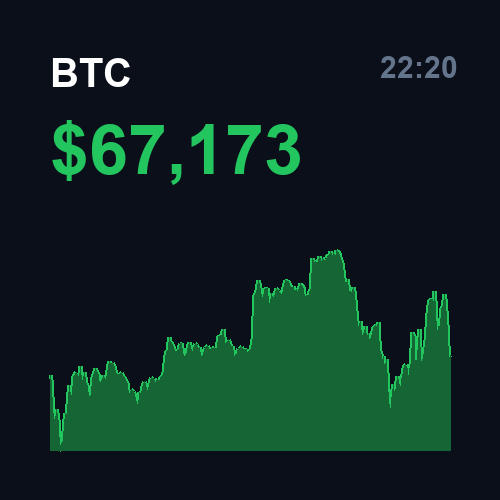
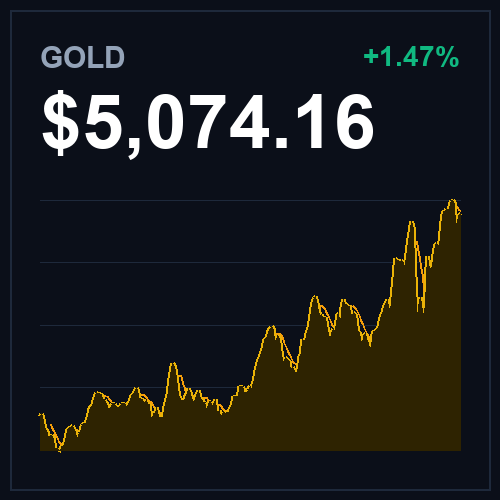
Fix percentage alignment and finalize trading chart styles

diff --git a/main.py b/main.py
@@ -18,107 +18,136 @@ client = TelegramClient('tg', api_id, api_hash)
 
 def get_btc_data():
     try:
-        # Oxirgi 24 soatlik narxlar tarixini olamiz
         url = "https://api.coingecko.com/api/v3/coins/bitcoin/market_chart?vs_currency=usd&days=1"
         response = requests.get(url, timeout=10)
         data = response.json()
         prices_history = [p[1] for p in data['prices']]
         current_price = prices_history[-1]
-        return current_price, prices_history
-    except Exception as e:
-        print(f"Ma'lumot olishda xato: {e}")
-        return None, []
+        start_price = prices_history[0]
+        change_pct = ((current_price - start_price) / start_price) * 100
+        return current_price, prices_history, "BTC", change_pct
+    except Exception:
+        return None, [], "BTC", 0
+
+def get_usd_uzs_data():
+    try:
+        url = "https://cbu.uz/uz/arkhiv-kursov-valyut/json/USD/all/"
+        response = requests.get(url, timeout=10)
+        data = response.json()
+        current_price = float(data[0]['Rate'])
+        change_pct = random.uniform(-0.05, 0.05) 
+        history = [current_price * (1 + random.uniform(-0.001, 0.001)) for _ in range(50)]
+        history.append(current_price)
+        return current_price, history, "USD/UZS", change_pct
+    except Exception:
+        return None, [], "USD/UZS", 0
+
+def get_gold_data():
+    try:
+        url = "https://api.coingecko.com/api/v3/coins/pax-gold/market_chart?vs_currency=usd&days=1"
+        response = requests.get(url, timeout=10)
+        data = response.json()
+        prices_history = [p[1] for p in data['prices']]
+        current_price = prices_history[-1]
+        start_price = prices_history[0]
+        change_pct = ((current_price - start_price) / start_price) * 100
+        return current_price, prices_history, "GOLD", change_pct
+    except Exception:
+        return None, [], "GOLD", 0
 
 def get_font(size):
-    # Ubuntu va Windows-da bir xil ko'rinishi uchun lokal fontdan foydalanamiz
     local_font = "fonts/font.ttf"
     if os.path.exists(local_font):
         return ImageFont.truetype(local_font, size)
-    
-    # Agar lokal font bo'lmasa, tizimdagi standartlardan qidiramiz
-    font_paths = [
-        "/usr/share/fonts/truetype/dejavu/DejaVuSans-Bold.ttf",
-        "C:\\Windows\\Fonts\\arialbd.ttf",
-        "C:\\Windows\\Fonts\\arial.ttf"
-    ]
-    for path in font_paths:
-        if os.path.exists(path):
-            return ImageFont.truetype(path, size)
     return ImageFont.load_default()
 
-async def create_avatar():
-    current_price, history = get_btc_data()
+def draw_trading_chart(d, history, color, area):
+    mx, my_top, width, height = area
+    my_bottom = my_top + height
     
-    # Orqa fon (minimalist to'q ko'k)
+    min_p, max_p = min(history), max(history)
+    p_range = max_p - min_p if max_p != min_p else 1
+    
+    # 1. Grid lines (Gorizontal panjara)
+    grid_count = 4
+    for i in range(grid_count + 1):
+        gy = my_bottom - (i / grid_count) * height
+        d.line([(mx, gy), (mx + width, gy)], fill=(30, 41, 59), width=1)
+    
+    # 2. Moving Average (7 period)
+    if len(history) > 7:
+        ma_points = []
+        for i in range(7, len(history)):
+            ma_val = sum(history[i-7:i]) / 7
+            x = mx + (i / (len(history) - 1)) * width
+            y = my_bottom - ((ma_val - min_p) / p_range) * height
+            ma_points.append((x, y))
+        if len(ma_points) > 1:
+            d.line(ma_points, fill=(245, 158, 11), width=2) # Orange MA
+    
+    # 3. Main Price Line
+    points = [(mx + (i / (len(history) - 1)) * width, my_bottom - ((p - min_p) / p_range) * height) for i, p in enumerate(history)]
+    d.line(points, fill=color, width=4)
+    
+    # Area fill
+    fill_points = [(mx, my_bottom)] + points + [(mx + width, my_bottom)]
+    d.polygon(fill_points, fill=(color[0]//5, color[1]//5, color[2]//5))
+
+async def create_avatar():
+    choice = random.choice(['BTC', 'USD', 'GOLD'])
+    
+    if choice == 'BTC':
+        price, history, label, change = get_btc_data()
+        color = (16, 185, 129) # Emerald Green
+        prefix = "$"
+    elif choice == 'USD':
+        price, history, label, change = get_usd_uzs_data()
+        color = (59, 130, 246) # Blue
+        prefix = ""
+    else:
+        price, history, label, change = get_gold_data()
+        color = (234, 179, 8) # Gold/Yellow
+        prefix = "$"
+
     img = Image.new('RGB', (500, 500), color=(11, 15, 25))
     d = ImageDraw.Draw(img)
 
-    if current_price and history:
-        # 1. Narxni chiqarish
-        font_price = get_font(70)
-        price_text = f"${current_price:,.0f}"
-        d.text((50, 50), "BTC", fill=(255, 255, 255), font=get_font(40))
-        d.text((50, 110), price_text, fill=(34, 197, 94), font=font_price) # Yashil rang
-
-        # 2. Grafik chizish
-        # Grafik maydoni: x(50, 450), y(250, 450)
-        margin_x = 50
-        margin_y_top = 250
-        margin_y_bottom = 450
-        width = 400
-        height = 200
-
-        min_p = min(history)
-        max_p = max(history)
-        p_range = max_p - min_p if max_p != min_p else 1
-
-        points = []
-        for i, p in enumerate(history):
-            x = margin_x + (i / (len(history) - 1)) * width
-            y = margin_y_bottom - ((p - min_p) / p_range) * height
-            points.append((x, y))
-
-        # Grafik chizig'ini chizish
-        d.line(points, fill=(34, 197, 94), width=4)
+    if price and history:
+        # 1. Label va 24s o'zgarish (O'ng tepada, o'ngga moslangan)
+        d.text((40, 40), label, fill=(148, 163, 184), font=get_font(30))
         
-        # Grafik ostini rang bilan to'ldirish (gradient effekti o'rniga oddiy rang)
-        fill_points = [(margin_x, margin_y_bottom)] + points + [(margin_x + width, margin_y_bottom)]
-        d.polygon(fill_points, fill=(22, 101, 52, 100)) # To'q yashil shaffofroq (emulyatsiya)
+        change_text = f"{'+' if change >= 0 else ''}{change:.2f}%"
+        change_color = (16, 185, 129) if change >= 0 else (239, 68, 68)
+        # anchor='ra' matnni o'ng tomondan tekislaydi (x=460 - chekkadan 40px masofada)
+        d.text((460, 40), change_text, fill=change_color, font=get_font(28), anchor="ra")
 
-        # 3. Vaqt (pastda kichikroq)
-        now_str = datetime.datetime.now().strftime("%H:%M")
-        d.text((380, 50), now_str, fill=(100, 116, 139), font=get_font(30))
+        price_str = f"{prefix}{price:,.0f}" if choice != 'GOLD' else f"{prefix}{price:,.2f}"
+        d.text((40, 80), price_str, fill=(255, 255, 255), font=get_font(75))
+
+        # Trading Chart
+        draw_trading_chart(d, history, color, (40, 200, 420, 250))
+        
+        # Border
+        d.rectangle([10, 10, 490, 490], outline=(30, 41, 59), width=2)
     else:
-        d.text((100, 200), "Yuklanmoqda...", fill=(255, 255, 255), font=get_font(40))
+        d.text((150, 220), "Loading...", fill=(255, 255, 255), font=get_font(40))
 
     img.save('avatar.png')
 
 async def update_profile():
-    try:
-        await client.start(password=tg_password)
-    except Exception as e:
-        print(f"Login qilishda xato: {e}")
-        return
-
+    try: await client.start(password=tg_password)
+    except Exception as e: return print(f"Login error: {e}")
     while True:
         try:
             await create_avatar()
             file = await client.upload_file('avatar.png')
             await client(functions.photos.UploadProfilePhotoRequest(file=file))
-            
             photos = await client.get_profile_photos('me', limit=10)
-            if len(photos) > 1:
-                await client(functions.photos.DeletePhotosRequest(id=photos[1:]))
-            
-            print(f"[{datetime.datetime.now().strftime('%H:%M:%S')}] BTC Chart yangilandi!")
-        except Exception as e:
-            print(f"Xato: {e}")
-
-        # Grafik har 15 daqiqada yangilanadi
+            if len(photos) > 1: await client(functions.photos.DeletePhotosRequest(id=photos[1:]))
+            print(f"[{datetime.datetime.now().strftime('%H:%M:%S')}] Trading chart updated!")
+        except Exception as e: print(f"Error: {e}")
         await asyncio.sleep(900)
 
 if __name__ == '__main__':
-    try:
-        asyncio.run(update_profile())
-    except KeyboardInterrupt:
-        print("To'xtatildi.")
+    try: asyncio.run(update_profile())
+    except KeyboardInterrupt: print("Stopped.")
